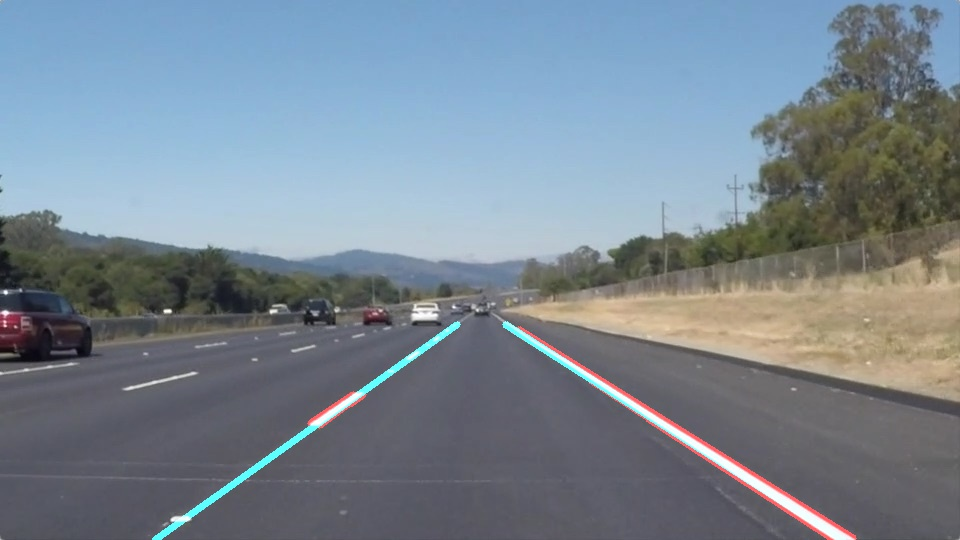
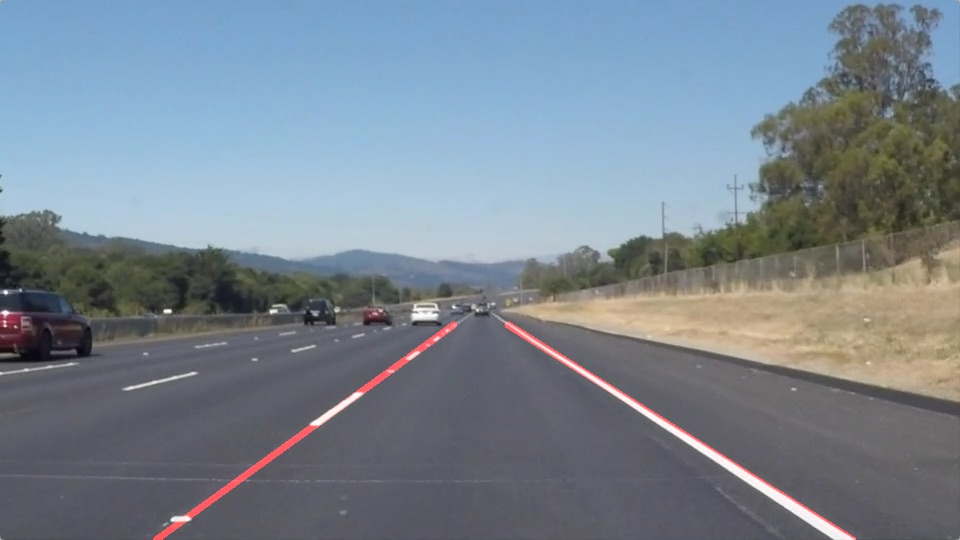
Finalizing for submission

diff --git a/helper_fnc.py b/helper_fnc.py
@@ -47,54 +47,52 @@ def region_of_interest(img, vertices):
 
 
 def draw_lines(img, lines, line_state, P, color=[0, 255, 255], thickness=5):
-    """
-    NOTE: this is the function you might want to use as a starting point once you want to 
-    average/extrapolate the line segments you detect to map out the full
-    extent of the lane (going from the result shown in raw-lines-example.mp4
-    to that shown in P1_example.mp4).  
+
     
-    Think about things like separating line segments by their 
-    slope ((y2-y1)/(x2-x1)) to decide which segments are part of the left
-    line vs. the right line.  Then, you can average the position of each of 
-    the lines and extrapolate to the top and bottom of the lane.
-    
-    This function draws `lines` with `color` and `thickness`.    
-    Lines are drawn on the image inplace (mutates the image).
-    If you want to make the lines semi-transparent, think about combining
-    this function with the weighted_img() function below
-    """
     slope_intercept = np.zeros((lines.shape[0], 2), dtype=np.float32)
     counter = 0
     countList = []
+    # loop over all the lines detected by Hough transform 
     for line in lines:
         for x1,y1,x2,y2 in line:
-#             cv2.line(img, (x1, y1), (x2, y2), color, thickness)
+            # cv2.line(img, (x1, y1), (x2, y2), color, thickness)
+            # calculate slope of each line
+            # avoid devide by zero condition
             if (x2==x1):
                 m = 1000
             else:
                 m = (y2-y1)/(x2-x1)
             b = y2 - m*x2
             
+            # ignore lines which are almost horizontal
+            # especially useful for the challenge video
             if np.abs(m) < 0.1:
                 countList.append(counter)
 
             slope_intercept[counter, :] =  [m, b]
             counter += 1
     
+    # delete rows corresponding to lines which are almost horizontal
     slope_intercept = np.delete(arr=slope_intercept, obj=countList, axis=0)
     
+    # Conduct K mean clustering to find mean slope and intercept
+    # for two lane markers
     criteria = (cv2.TERM_CRITERIA_EPS + cv2.TERM_CRITERIA_MAX_ITER, 10, 1.0)
     ret, label, center = cv2.kmeans(slope_intercept,2,None,criteria,10,cv2.KMEANS_RANDOM_CENTERS)
     
+    # Flag to start kamlman filtering only in second iteration for videos
+    # Kalman filter does not engage for static image
     second_run = False
     if (line_state[0,0]!=0 and line_state[4,0]!=0):
         second_run = True
     
+    # if clustering finds only one class
+    # assume it is the same as last state
     if (center.shape[1] == 1):
-        m1 = 0.01
-        b1 = 0
-        m2 = 0.01
-        b2 = 0
+        m1 = line_state[0,0]
+        b1 = line_state[1,0]
+        m2 = line_state[4,0]
+        b2 = line_state[5,0]
     else:
         if center[0, 0] < center[1, 0]:
             m1 = center[0, 0]
@@ -106,10 +104,8 @@ def draw_lines(img, lines, line_state, P, color=[0, 255, 255], thickness=5):
             b1 = center[1, 1]
             m2 = center[0, 0]
             b2 = center[0, 1]
-        
-#     print("\r\nMeasurement- {:f} {:f} {:f} {:f}".format(m1, b1, m2, b2))
-#     print("\r\n" + str(line_state.T))
-    
+
+    # apply kalman filtering from 2nd frame on
     if second_run:
         line_state, P = kalmanFilterFnc(line_state, P, np.array([m1, b1, m2, b2]).T)
         m1 = line_state[0, 0]
@@ -119,8 +115,8 @@ def draw_lines(img, lines, line_state, P, color=[0, 255, 255], thickness=5):
     else:
         line_state = np.array([m1, b1, 0, 0, m2, b2, 0, 0]).T
         line_state = line_state[..., np.newaxis]
-#     print("  Filtered- {:f} {:f} {:f} {:f}".format(m1, b1, m2, b2))
     
+    # draw lines in region of interest
     y1av_1 = img.shape[0]
     x1av_1 = np.int32(1/m1*(y1av_1 - b1))
     
@@ -136,7 +132,8 @@ def draw_lines(img, lines, line_state, P, color=[0, 255, 255], thickness=5):
     x2av_2 = np.int32(1/m2*(y2av_2 - b2))
     
     cv2.line(img, (x1av_2, y1av_2), (x2av_2, y2av_2), [255, 0, 0], thickness)
-    
+
+#     Some debug plotting code    
 #     # Now separate the data, Note the flatten()
 #     A = slope_intercept[label.ravel()==0]
 #     B = slope_intercept[label.ravel()==1]

diff --git a/test_video.py b/test_video.py
@@ -8,7 +8,10 @@ class image_processor_class():
     def __init__(self, clip, outputFile):
         videoClip = clip
         
+        # Kalman filtering: create initial estimate of 
+        # slope/intercept and their derivate
         self.line_state = np.zeros((8, 1))
+        # define initial guess for measurement uncerenity
         self.line_uncertanity = np.zeros((8,8))
         self.line_uncertanity[0, 0] = 1
         self.line_uncertanity[1, 1] = 1
@@ -19,28 +22,32 @@ class image_processor_class():
         self.line_uncertanity[6, 6] = 1000
         self.line_uncertanity[7, 7] = 1000
         
+        # process video clip
         white_clip = videoClip.fl_image(self.process_image) 
         white_clip.write_videofile(outputFile, audio=False)        
     
     def process_image(self, image):
+        
         result = lineMarkerFnc(image, self.line_state, self.line_uncertanity)
         self.line_state, self.line_uncertanity = result['lines']
         return result['img']
 
 # fileName = 'solidWhiteRight.mp4'
-fileName = 'solidYellowLeft.mp4'
+# fileName = 'solidYellowLeft.mp4'
 # fileName = 'challenge.mp4'
+# get all video files in test folder
+fileList = os.listdir("test_videos/")
 
-# fileList = os.listdir("test_videos/")
-# for figIdx, fileName in enumerate(fileList):
+# iterate over all files
+for figIdx, fileName in enumerate(fileList):
 
-inputFile = 'test_videos/' + fileName
-outputFile = 'test_videos_output/' + fileName
+    inputFile = 'test_videos/' + fileName
+    outputFile = 'test_videos_output/' + fileName
+    
+    # clip1 = VideoFileClip(inputFile).subclip(0, 5)
+    clip1 = VideoFileClip(inputFile)
+    
+    # process video clip
+    oImageProc = image_processor_class(clip1, outputFile)
 
-# clip1 = VideoFileClip(inputFile).subclip(0, 5)
-clip1 = VideoFileClip(inputFile)
-
-oImageProc = image_processor_class(clip1, outputFile)
-# white_clip = clip1.fl_image(oImageProc.process_image) 
-# white_clip.write_videofile(outputFile, audio=False)
 

diff --git a/line_marker.py b/line_marker.py
@@ -37,7 +37,8 @@ def lineMarkerFnc(image, line_state, line_uncertanity, figNumber=1, totalFigures
 #     plt.imshow(edges, cmap='gray')
 #     plt.savefig( "./pipeline_steps/step_3_CannyEdge.png", bbox_inches='tight', transparent="True", pad_inches=0)
 #     plt.show()
-
+    
+    # define vertices for the mask
     vertices = np.array([[(0,height_img),
                           (np.int32(width_img/2)-10, height_img*0.57),
                           (np.int32(width_img/2)+10, height_img*0.57), 
@@ -69,23 +70,17 @@ def lineMarkerFnc(image, line_state, line_uncertanity, figNumber=1, totalFigures
 #     plt.imshow(lines_edges)
 #     plt.savefig( "./pipeline_steps/step_6_Superimposed.png", bbox_inches='tight', transparent="True", pad_inches=0)
 
-    
-#     # plt input image and lane marked image
-#     plt.figure(figsize=figSize)
-#     plt.subplot(121)
-#     plt.imshow(image)
-#     plt.subplot(122)
-#     plt.imshow(lines_edges)
-#     plt.show()
-    
     return {'img':lines_edges, 'lines':lines_image['lines']}
 
 if __name__ == '__main__':
     fileName = 'solidYellowCurve.jpg'
     image = mpimg.imread('test_images/' + fileName)
     
+    # Kalman filtering: create initial estimate of 
+    # slope/intercept and their derivate
     line_state = np.array([0, 0, 0, 0, 0, 0, 0, 0])
     line_state = line_state[..., np.newaxis]
+    # define initial guess for measurement uncerenity
     line_uncertanity = np.zeros((8,8))
     line_uncertanity[0] = 1
     line_uncertanity[1] = 1

diff --git a/test_all_image.py b/test_all_image.py
@@ -5,7 +5,11 @@ import matplotlib.image as mpimg
 fileList = os.listdir("test_images/")
 numFig = len(fileList)
 
-line_state = np.array([0, 0, 0, 0])
+# Kalman filtering: create initial estimate of 
+# slope/intercept and their derivate
+line_state = np.array([0, 0, 0, 0, 0, 0, 0, 0])
+line_state = line_state[..., np.newaxis]
+# define initial guess for measurement uncerenity
 line_uncertanity = np.zeros((8,8))
 line_uncertanity[0] = 1
 line_uncertanity[1] = 1
@@ -16,6 +20,7 @@ line_uncertanity[5] = 1
 line_uncertanity[6] = 1000
 line_uncertanity[7] = 1000
 
+# iterate over all files
 for figIdx, fileName in enumerate(fileList):
     # read image
     image = mpimg.imread('./test_images/' + fileName)
